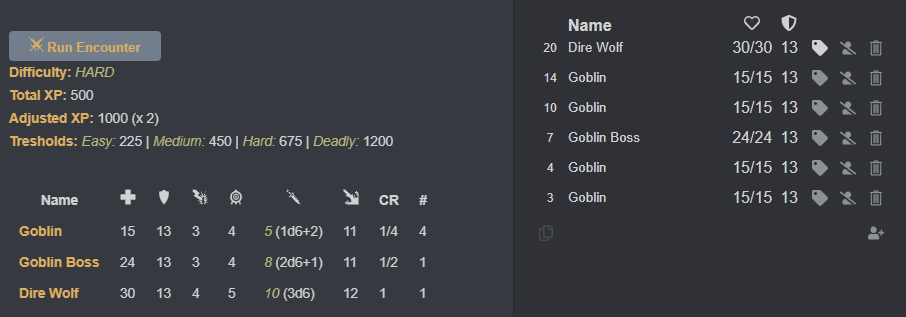
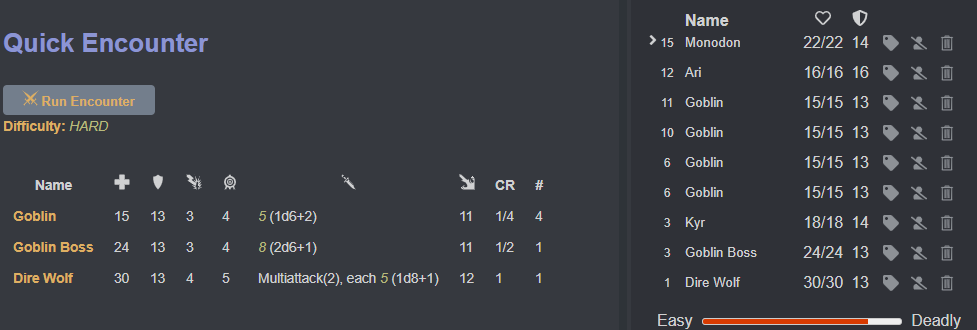
Changed screenshots and updated README

diff --git a/src/main.ts b/src/main.ts
@@ -159,7 +159,7 @@ export default class QuickMonsters extends Plugin {
                     const svelteComponent = new Encounter({
                         target: div1,
                         props: {
-                            tracker: this.canUseInitiativeTracker,
+                            tracker: (this.canUseInitiativeTracker && this.settings.useInitiativeTracker),
                             monsters: monsters,
                             levels: playerLevels.flat(),
                             displayType: this.settings.displayType,

diff --git a/README.md b/README.md
@@ -25,7 +25,7 @@ which will render as
 The stats shown are:
 - Name
 - Hit Points (HP)
-- Armor Class (AC)
+- Armor Class (AC)git 
 - Best Saving Throw
 - To Hit Bonus
 - Damage
@@ -60,7 +60,7 @@ You can turn the list of monsters into an encounter by adding a line with your c
 Let's add more Goblins (setting `amount: 4`)  and see how difficult that encounter would be for our group of three level 3 adventures.
 
 ````yaml
-```quick-monster
+```quick-encounter
 - levels: [3, 3, 3]
 - { name: Goblin, cr: 1/4, amount: 4 }
 - { name: Goblin Boss, cr: 1/2 }
@@ -71,25 +71,15 @@ This yields:
 
 <img src="https://github.com/g-bauer/obsidian-quick-monsters/blob/main/img/encounter.PNG">
 
-A neat way to organize encounters is by putting them into a foldable section e.g. using the excellent [obsidian-admonition plugin](https://github.com/valentine195/obsidian-admonition):
+If you hover over the difficulty, you'll see a breakdown of the difficulty threshold.
 
-````ad-encounter
-```quick-monster
-- levels: [3, 3, 3]
-- { name: Goblin, cr: 1/4, amount: 4 }
-- { name: Goblin Boss, cr: 1/2 }
-- { name: Dire Wolf, cr: 1 }
-```
-````
-
-<img src="https://github.com/g-bauer/obsidian-quick-monsters/blob/main/img/encounter-ad.PNG">
+<img src="https://github.com/g-bauer/obsidian-quick-monsters/blob/main/img/encounter-tooltip.PNG">
 
 ### Running an encounter with the `initiative-tracker` plugin
 
-If you have the [obsidian-initiative-tracker](https://github.com/valentine195/obsidian-initiative-tracker) plugin installed and activated, 
-there will be a button that you can use to start an encounter.
+If you have the [obsidian-initiative-tracker](https://github.com/valentine195/obsidian-initiative-tracker) plugin installed and enabled in the settings, instead of adding `levels` to your encounter, the players that are registered within the initiative-tracker settings will be used. You can start the encounter by clicking on the button.
 
-<img src="https://github.com/g-bauer/obsidian-quick-monsters/blob/main/img/initiative-tracker.PNG">
+<img src="https://github.com/g-bauer/obsidian-quick-monsters/blob/main/img/initiative-tracker-integration.PNG">
 
 ### Options
 
@@ -115,21 +105,6 @@ yields
 
 The total damage is split into two "attacks" and instead of the default 6-sided die, 8-sided dice are used.
 
-
-### Statistics
-
-The statistics shown are:
-
-- **Name** and **CR** (your input)
-- **HP**: monster hit points
-- **AC**: monster armor class
-- **Best Save**: bonus to the saving throw the monster is most proficient in (informed by your monster theme)
-- **Hit**: to hit bonus for weapon and spell attacks (yes - only remember one value for all attacks)
-- **Damage**: the damage *per* attack or spell, with the dice formula according to the selected dice (default is a 6-sided die)
-- **DC**: difficulty class for spells or other effects such as attack riders (knock down, etc.)
-
-The statistics are divided into *offensive* and *defensive* values. From my experience, as DMs, we often need only one of these information at a given time: On our turn, we need offensive stats - when our players act, we mostly need defensive stats.
-
 ## The Stats are your Starting Point
 
 These stat blocks should be used as a solid base to come up quickly with your own monsters - **they are not set in stone**.
@@ -142,14 +117,14 @@ Consider this stat block:
 We can use these statistics and improvise this creature's attacks (may be we make some notes below the block):
 
 - **Multiattack**: Ythanar attacks once with his *Claw* and once with his *Tail*:
-  -  *Claw*: 18 (2d8 slashing + 2d8 necrotic) damage
-  -  *Tail*: 18 (4d8) bludgeoning damage. Target must make a Strenght Saving Throw (DC 14) or is knocked prone.
-- **Necrotic Breath** (1 charge): 60 ft cone. 36 (8d8) necrotic damage on a failed Constitution Saving Throw (DC 14), half on a success. When Ythanar drops below 50% HP, he regains 1 charge and can use his reaction to use this ability.
+  -  *Claw*: 18 (2d6 slashing + 3d6 necrotic) damage
+  -  *Tail*: 18 (5d6) bludgeoning damage. Target must make a Strenght Saving Throw (DC 14) or is knocked prone.
+- **Necrotic Breath** (1 charge): 60 ft cone. 36 (6d6 + 15) necrotic damage on a failed Constitution Saving Throw (DC 14), half on a success. When Ythanar drops below 50% HP, he regains 1 charge and can use his reaction to use this ability.
 
 It's easy to run. You only need one type of die to roll damage and all attacks have the same to Hit bonus and the same DC.
-If you can do the math in your head, you can always change the dice from `4d8` to `3d8 + 4` if you prefer a smaller variance.
+If you can do the math in your head, you can always change the dice from `5d6` to `3d6 + 8` if you prefer a smaller variance.
 
-## Adjusting the Statistics
+### Adjusting the Statistics
 
 The author of the formulas (see [here](http://blogofholding.com/?p=7338)) evaluated how much stats spread for each CR and derived some heuristics. Adjustments *should be informed by the concept/type of your monster*.
 
